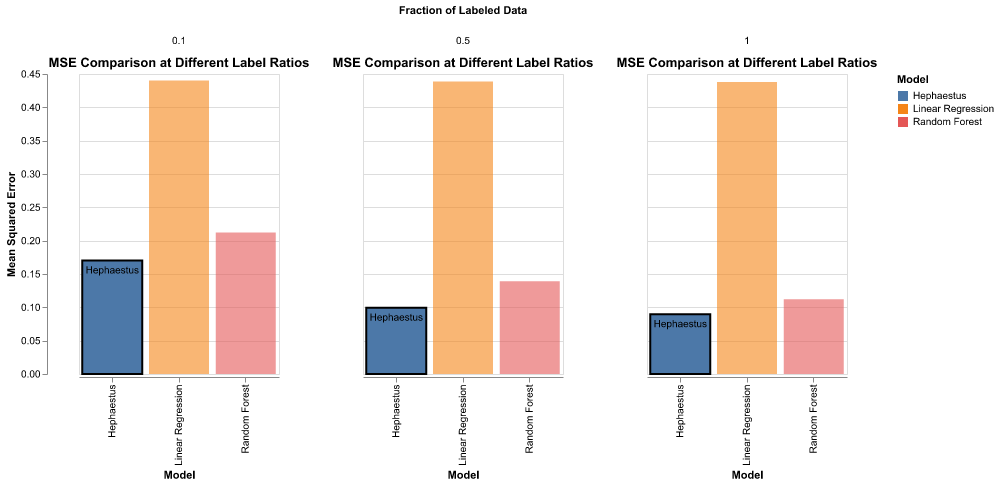
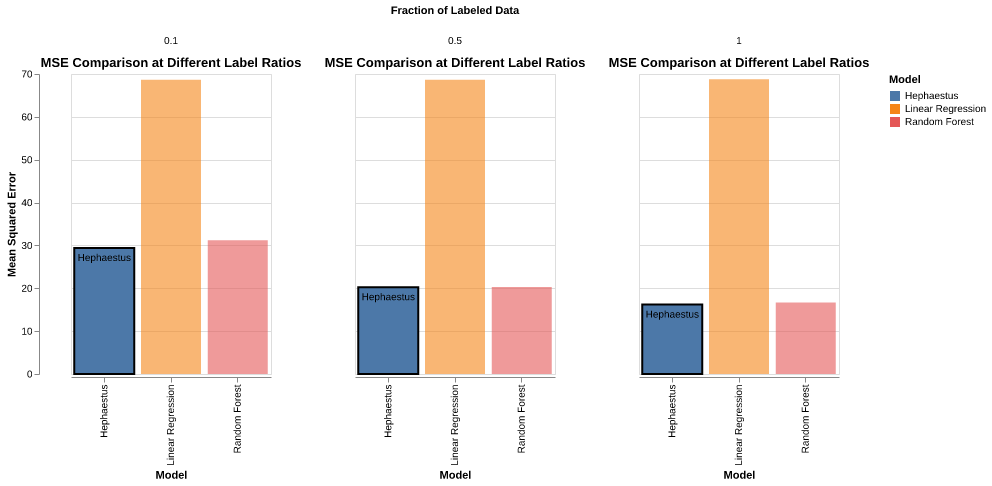
Refactor data handling and model training logic to improve tensor operations, add MAE metrics, and enhance data preprocessing steps.

diff --git a/turbine_limited.py b/turbine_limited.py
@@ -13,14 +13,12 @@ model.
 # %%
 import glob
 import os
-from datetime import datetime as dt
 from pathlib import Path
+
+import altair as alt
 
 # ruff: noqa: E402
 import pandas as pd
-import altair as alt
-
-
 import pytorch_lightning as L  # noqa: N812
 import torch
 from pytorch_lightning.callbacks import (
@@ -31,7 +29,7 @@ from pytorch_lightning.callbacks import (
 from pytorch_lightning.loggers import TensorBoardLogger
 from sklearn.ensemble import RandomForestRegressor
 from sklearn.linear_model import LinearRegression
-from sklearn.metrics import mean_squared_error
+from sklearn.metrics import mean_absolute_error, mean_squared_error
 from sklearn.model_selection import train_test_split
 from sklearn.preprocessing import StandardScaler
 
@@ -69,14 +67,31 @@ for file in csv_files:
 df = pd.concat(df_list, ignore_index=True)
 df.columns = df.columns.str.lower()
 
+# Remove CO column if it exists
+if "co" in df.columns:
+    df = df.drop(columns=["co"])
+    print("Removed CO column from dataset")
+
 df = df.rename(columns={"nox": "target"})
+# Store original target values for unscaled metrics
+original_target = df["target"].copy()
+
 # scale the non-target numerical columns
 scaler = StandardScaler()
 numeric_cols = df.select_dtypes(include=[float, int]).columns
-# numeric_cols = numeric_cols.drop("target")
-df[numeric_cols] = scaler.fit_transform(df[numeric_cols])
-# df["target"] = df["target"] + 100
+numeric_cols_without_target = numeric_cols.drop("target")
+# Scale features but keep target separate for unscaled metrics
+df[numeric_cols_without_target] = scaler.fit_transform(df[numeric_cols_without_target])
+
+# Scale target separately and store the scaler
+target_scaler = StandardScaler()
+df["target"] = target_scaler.fit_transform(df[["target"]]).flatten()
+
+# Add categorical column AFTER scaling to avoid type issues
 df["cat_column"] = "category"  # Dummy category for bugs in data loader
+# Ensure categorical column is properly typed
+df["cat_column"] = df["cat_column"].astype('category')
+print(f"Data types after processing: {df.dtypes}")
 df.head()
 
 # %%
@@ -92,6 +107,8 @@ model_config_mtm = sr.SingleRowConfig.generate(X_setup)  # Full dataset - target
 model_config_reg = sr.SingleRowConfig.generate(
     df, target="target"
 )  # Full dataset with target
+# print(f"Number of columns in model config: {model_config_mtm.n_columns}")
+# print(f"Number of features after CO removal: {len(X_setup.columns)}")
 df_train, df_test = train_test_split(df, test_size=0.2, random_state=42)
 
 X_train_sub_set = df_train.drop(columns=["target"])
@@ -105,7 +122,7 @@ test_dataset = sr.TabularDS(X_test, model_config_mtm)
 mtm_model = sr.MaskedTabularModeling(
     model_config_mtm, d_model=D_MODEL, n_heads=N_HEADS, lr=LR
 )
-mtm_model.predict_step(train_dataset[0:10].inputs)
+# mtm_model.predict_step(train_dataset[0:10].inputs)  # Skip test prediction before training
 
 # %%
 train_dataloader = torch.utils.data.DataLoader(
@@ -126,7 +143,7 @@ Markdown("""### Model Training
 Using PyTorch Lightning, we will train the model using the training and validation
 """)
 
-retrain_model = False
+retrain_model = True
 pretrained_model_dir = Path("checkpoints/turbine_limited")
 pre_trained_models = list(pretrained_model_dir.glob("*.ckpt"))
 # Check if a model with the exact name exists or if retraining is forced
@@ -139,8 +156,7 @@ else:
 
 
 if run_trainer:
-    logger_time = dt.now().strftime("%Y-%m-%dT%H:%M:%S")
-    logger_name = f"{logger_time}_{LOGGER_VARIANT_NAME}"
+    logger_name = f"{LOGGER_VARIANT_NAME}"
     print(f"Using logger name: {logger_name}")
     logger = TensorBoardLogger(
         "runs",
@@ -211,8 +227,8 @@ regressor = sr.TabularRegressor(
 regressor.model.tabular_encoder = mtm_model.model.tabular_encoder
 
 # %%
-reg_out = regressor.predict_step(train_dataset[0:10])
-print(f"{reg_out=}")
+# reg_out = regressor.predict_step(train_dataset[0:10])  # Skip test prediction before training
+# print(f"{reg_out=}")
 # %%
 Markdown("""## Define Model Training Functions
 
@@ -266,10 +282,7 @@ def train_hephaestus_model(
     regressor.model.tabular_encoder = mtm_model.model.tabular_encoder
 
     # Training configuration
-    logger_time = dt.now().strftime("%Y-%m-%dT%H:%M:%S")
-    logger_name = (
-        f"{logger_time}_Regressor_fine_tune_{LOGGER_VARIANT_NAME}_{label_ratio}"
-    )
+    logger_name = f"Regressor_fine_tune_{LOGGER_VARIANT_NAME}_{label_ratio}"
     print(f"Using logger name: {logger_name}")
     logger = TensorBoardLogger("runs", name=logger_name)
 
@@ -304,17 +317,23 @@ def train_hephaestus_model(
     y = torch.cat(y, dim=0).squeeze().numpy()
     y_hat = torch.cat(y_hat, dim=0).squeeze().numpy()
 
-    # Calculate metrics
-    mse = mean_squared_error(y, y_hat)
+    # Convert scaled predictions back to original scale for metrics
+    y_unscaled = target_scaler.inverse_transform(y.reshape(-1, 1)).flatten()
+    y_hat_unscaled = target_scaler.inverse_transform(y_hat.reshape(-1, 1)).flatten()
+
+    # Calculate metrics on unscaled values
+    mse = mean_squared_error(y_unscaled, y_hat_unscaled)
     rmse = np.sqrt(mse)
+    mae = mean_absolute_error(y_unscaled, y_hat_unscaled)
 
     # Return model and metrics
     return {
         "model": regressor,
         "mse": mse,
         "rmse": rmse,
-        "y_true": y,
-        "y_pred": y_hat,
+        "mae": mae,
+        "y_true": y_unscaled,
+        "y_pred": y_hat_unscaled,
         "label_ratio": label_ratio,
     }
 
@@ -348,16 +367,26 @@ def train_linear_regression(df_train, df_test, label_ratio=1.0):
 
     # Evaluate
     y_pred = linear_model.predict(X_test_skl)
-    mse = mean_squared_error(y_test, y_pred)
+
+    # Convert scaled predictions back to original scale for metrics
+    y_test_unscaled = target_scaler.inverse_transform(
+        y_test.values.reshape(-1, 1)
+    ).flatten()
+    y_pred_unscaled = target_scaler.inverse_transform(y_pred.reshape(-1, 1)).flatten()
+
+    # Calculate metrics on unscaled values
+    mse = mean_squared_error(y_test_unscaled, y_pred_unscaled)
     rmse = np.sqrt(mse)
+    mae = mean_absolute_error(y_test_unscaled, y_pred_unscaled)
 
     # Return model and metrics
     return {
         "model": linear_model,
         "mse": mse,
         "rmse": rmse,
-        "y_true": y_test,
-        "y_pred": y_pred,
+        "mae": mae,
+        "y_true": y_test_unscaled,
+        "y_pred": y_pred_unscaled,
         "label_ratio": label_ratio,
     }
 
@@ -391,16 +420,26 @@ def train_random_forest(df_train, df_test, label_ratio=1.0):
 
     # Evaluate
     y_pred = rf_model.predict(X_test_skl)
-    mse = mean_squared_error(y_test, y_pred)
+
+    # Convert scaled predictions back to original scale for metrics
+    y_test_unscaled = target_scaler.inverse_transform(
+        y_test.values.reshape(-1, 1)
+    ).flatten()
+    y_pred_unscaled = target_scaler.inverse_transform(y_pred.reshape(-1, 1)).flatten()
+
+    # Calculate metrics on unscaled values
+    mse = mean_squared_error(y_test_unscaled, y_pred_unscaled)
     rmse = np.sqrt(mse)
+    mae = mean_absolute_error(y_test_unscaled, y_pred_unscaled)
 
     # Return model and metrics
     return {
         "model": rf_model,
         "mse": mse,
         "rmse": rmse,
-        "y_true": y_test,
-        "y_pred": y_pred,
+        "mae": mae,
+        "y_true": y_test_unscaled,
+        "y_pred": y_pred_unscaled,
         "label_ratio": label_ratio,
     }
 
@@ -422,7 +461,7 @@ rf_results = []
 
 # Train and evaluate models on each data fraction
 for fraction in data_fractions:
-    print(f"\nTraining with {fraction*100}% of labeled data:")
+    print(f"\nTraining with {fraction * 100}% of labeled data:")
 
     # Train Hephaestus model
     print("Training Hephaestus model...")
@@ -441,12 +480,16 @@ for fraction in data_fractions:
     rf_result = train_random_forest(df_train, df_test, label_ratio=fraction)
     rf_results.append(rf_result)
 
-    print(f"Results with {fraction*100}% of labeled data:")
-    print(f"  Hephaestus MSE: {hep_result['mse']:.3f}, RMSE: {hep_result['rmse']:.3f}")
+    print(f"Results with {fraction * 100}% of labeled data:")
     print(
-        f"  Linear Regression MSE: {lr_result['mse']:.3f}, RMSE: {lr_result['rmse']:.3f}"
+        f"  Hephaestus MSE: {hep_result['mse']:.3f}, RMSE: {hep_result['rmse']:.3f}, MAE: {hep_result['mae']:.3f}"
     )
-    print(f"  Random Forest MSE: {rf_result['mse']:.3f}, RMSE: {rf_result['rmse']:.3f}")
+    print(
+        f"  Linear Regression MSE: {lr_result['mse']:.3f}, RMSE: {lr_result['rmse']:.3f}, MAE: {lr_result['mae']:.3f}"
+    )
+    print(
+        f"  Random Forest MSE: {rf_result['mse']:.3f}, RMSE: {rf_result['rmse']:.3f}, MAE: {rf_result['mae']:.3f}"
+    )
 
 # %%
 Markdown("""## Visualize the Results
@@ -466,6 +509,7 @@ for result in hephaestus_results:
             "Label Ratio": result["label_ratio"],
             "MSE": result["mse"],
             "RMSE": result["rmse"],
+            "MAE": result["mae"],
         }
     )
 
@@ -477,6 +521,7 @@ for result in lr_results:
             "Label Ratio": result["label_ratio"],
             "MSE": result["mse"],
             "RMSE": result["rmse"],
+            "MAE": result["mae"],
         }
     )
 
@@ -488,6 +533,7 @@ for result in rf_results:
             "Label Ratio": result["label_ratio"],
             "MSE": result["mse"],
             "RMSE": result["rmse"],
+            "MAE": result["mae"],
         }
     )
 
@@ -510,7 +556,7 @@ mse_chart = (
         ),
         y=alt.Y("MSE:Q", title="Mean Squared Error"),
         color=alt.Color("Model:N"),
-        tooltip=["Model", "Label Ratio", "MSE", "RMSE"],
+        tooltip=["Model", "Label Ratio", "MSE", "RMSE", "MAE"],
     )
     .properties(
         title="MSE Comparison Across Models with Different Amounts of Labeled Data",
@@ -560,7 +606,7 @@ bar_chart = base.mark_bar().encode(
     x=alt.X("Model:N", title="Model"),
     y=alt.Y("MSE:Q", title="Mean Squared Error"),
     color=alt.Color("Model:N"),
-    tooltip=["Model", "Label Ratio", "MSE", "RMSE"],
+    tooltip=["Model", "Label Ratio", "MSE", "RMSE", "MAE"],
     opacity=alt.condition(alt.datum.is_best, alt.value(1), alt.value(0.6)),
     strokeWidth=alt.condition(alt.datum.is_best, alt.value(2), alt.value(0)),
     stroke=alt.condition(alt.datum.is_best, alt.value("black"), alt.value(None)),
@@ -657,7 +703,7 @@ mse_chart_10 = (
         color="Model",
     )
     .properties(
-        title=f"MSE Comparison Across Models with only {(ratio_10_percent*100)}% of data labeled"
+        title=f"MSE Comparison Across Models with only {(ratio_10_percent * 100)}% of data labeled"
     )
 )
 

diff --git a/hephaestus/single_row_models/model_data_classes.py b/hephaestus/single_row_models/model_data_classes.py
@@ -226,12 +226,19 @@ class TabularDS(Dataset):
         df = getattr(self, df_name)
 
         batch = df.iloc[set_idx, :]
-        # Convert DataFrame to torch.Tensor directly
-        batch = torch.tensor(batch.values, dtype=torch.float32)
+        # Convert DataFrame to torch.Tensor with proper data type preservation
+        if df_name == "df_categorical":
+            # Categorical data should be integers for proper indexing
+            batch = torch.tensor(batch.values, dtype=torch.long)
+        else:
+            # Numeric data remains as float32
+            batch = torch.tensor(batch.values, dtype=torch.float32)
 
-        # Add padding
-        # batch_len, n_cols = batch.shape
-        batch = batch.squeeze(0)
+        # Ensure consistent shape handling
+        # The original squeeze(0) can reduce dimensionality too much for single column data
+        # We need to maintain at least 1D for proper tensor operations
+        if batch.dim() > 1:
+            batch = batch.squeeze(0)  # Remove batch dimension for single item access
         # TODO Add padding for columns
         # batch = batch.permute(1, 0)
         return batch

diff --git a/hephaestus/single_row_models/single_row_models.py b/hephaestus/single_row_models/single_row_models.py
@@ -299,7 +299,7 @@ class MaskedTabularEncoder(nn.Module):
         self.mlm_decoder = nn.Sequential(
             nn.Flatten(start_dim=1),  # n_columns * d_model * 2
             nn.Linear(
-                self.model_config.n_columns * 128,
+                self.model_config.n_columns_no_target * self.d_model,
                 self.model_config.n_cat_cols * self.model_config.n_tokens,
             ),
             # nn.GELU(),
@@ -310,7 +310,7 @@ class MaskedTabularEncoder(nn.Module):
         )
         self.mnm_decoder = nn.Sequential(
             nn.Linear(
-                self.model_config.n_columns * self.d_model, self.d_model * 4
+                self.model_config.n_columns_no_target * self.d_model, self.d_model * 4
             ),  # Try making more complex
             nn.GELU(),
             nn.Linear(self.d_model * 4, self.model_config.n_numeric_cols),

diff --git a/hephaestus/single_row_models/training.py b/hephaestus/single_row_models/training.py
@@ -239,7 +239,11 @@ def mask_tensor(tensor, model, probability=0.8):
         tensor[bit_mask] = torch.tensor(float("-Inf"))
     else:
         # Get the cat_mask_token and move it to the same device as the tensor
-        mask_token = model.cat_mask_token.to(tensor.device)
+        # For MaskedTabularEncoder, access through tabular_encoder
+        if hasattr(model, 'tabular_encoder'):
+            mask_token = model.tabular_encoder.cat_mask_token.to(tensor.device)
+        else:
+            mask_token = model.cat_mask_token.to(tensor.device)
         tensor[bit_mask] = mask_token
     # Use the tensor's own device instead of model.device
     return tensor
